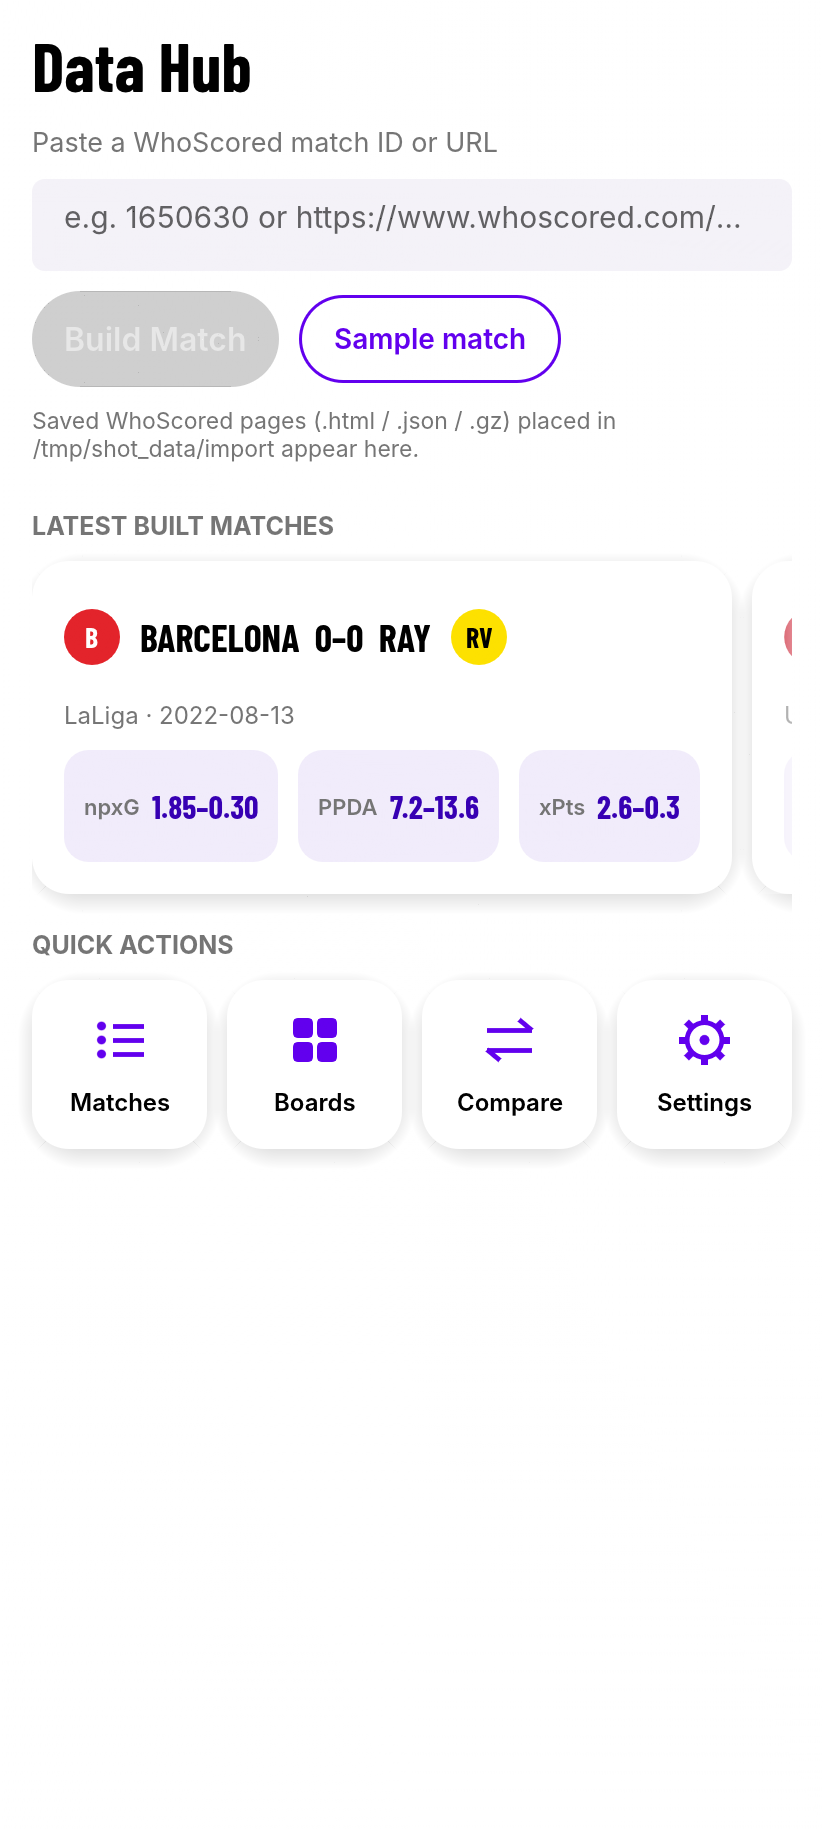
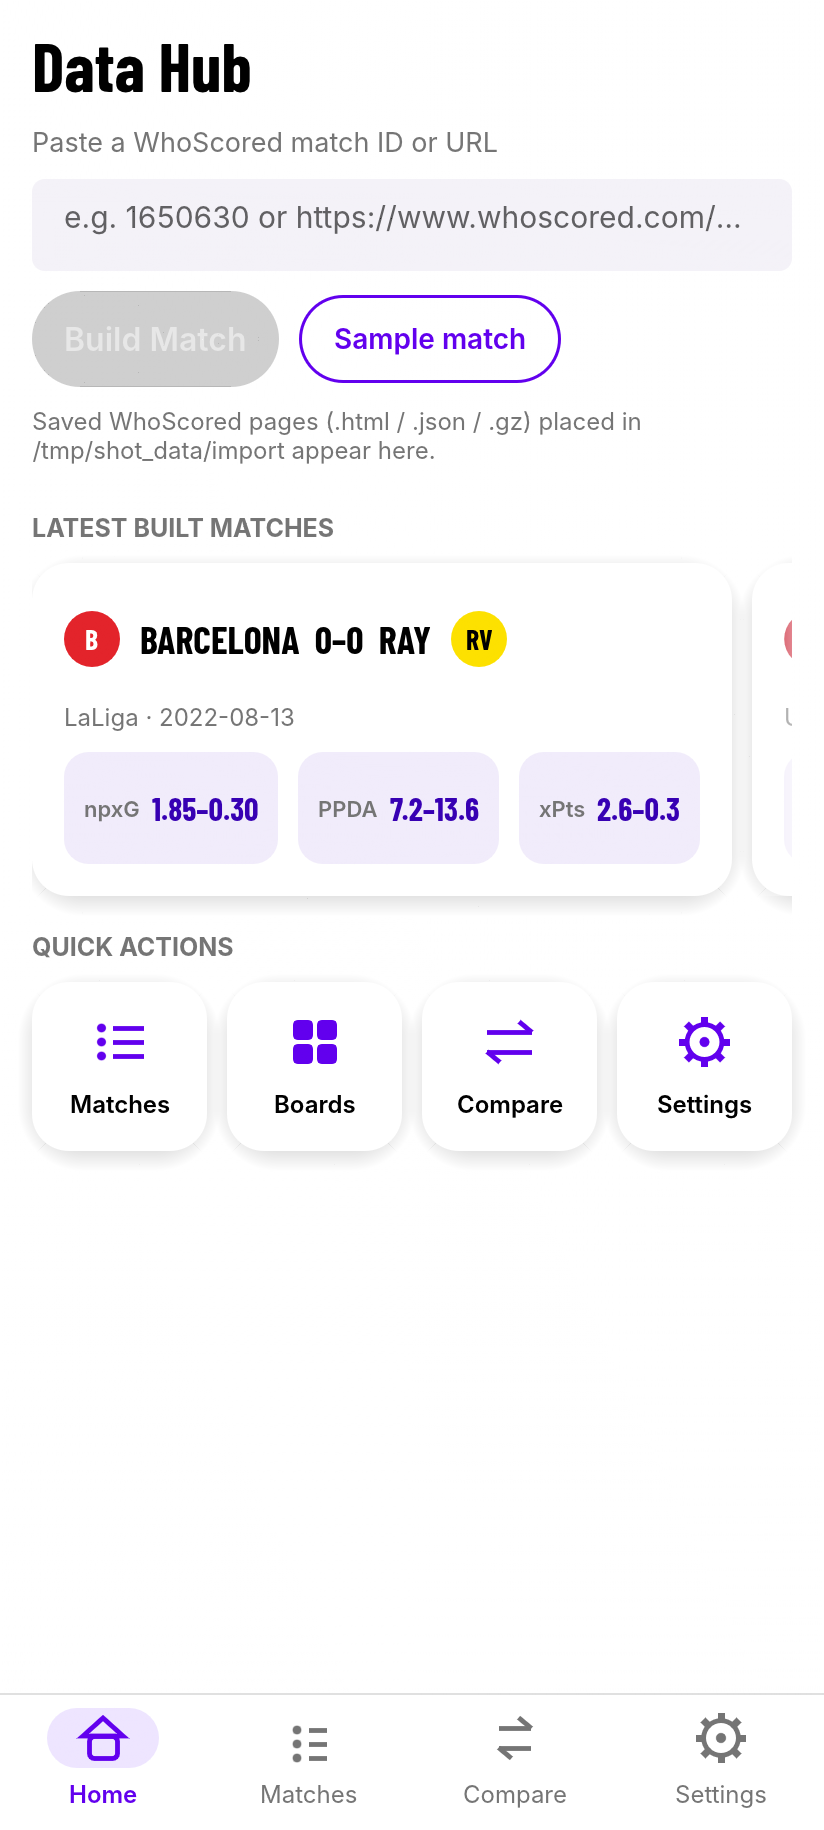
Update README and screenshots
Document the scrape relay, interactive boards and UI guidance; refresh the
headless screenshots including the tooltip and legend-toggle state.

Claude-Session: https://claude.ai/code/session_01U23C1TwYZAWvTVzDNa9yUQ

diff --git a/README.md b/README.md
@@ -9,7 +9,9 @@ crates/
 docs/
   DATA_HUB_UPGRADE.md   full spec the pipeline implements
   screenshots/          headless renders of every app screen
-.github/workflows/android-apk.yml   CI: tests + APK artifact
+.github/workflows/android-apk.yml        CI: tests + APK artifact
+.github/workflows/scrape-whoscored.yml   headless-browser scrape relay (football-analytics-tutorials)
+scripts/scrape_whoscored.py              relay script, writes data/whoscored/<id>.json.gz
 ```
 
 ## Quick start (desktop)
@@ -63,6 +65,38 @@ A release build without a signing profile is signed with the debug keystore. To 
 - **Soft keyboard:** opened and closed through `AndroidApp::show_soft_input` / `hide_soft_input` when a text field takes focus. The hardware or gesture Back button pops the screen stack.
 - **Data:** stored in the app's internal data dir. Saved WhoScored pages can be imported from `/sdcard/Android/data/com.datahub.app/files/import/`, with `adb push page.html /sdcard/Android/data/com.datahub.app/files/import/`. They then appear on Home.
 - **Exports:** PNGs go to `.../files/exports/`.
+
+## Scrape relay: any WhoScored link works automatically
+
+WhoScored bot-walls plain HTTP. Scraping therefore runs in a real headless Chromium on GitHub Actions, using the Playwright scraper from [ricardoherediaj/football-analytics-tutorials](https://github.com/ricardoherediaj/football-analytics-tutorials) (pinned commit):
+
+1. You paste a WhoScored link in the app.
+2. The app looks for `data/whoscored/<id>.json.gz` in the relay repo (this repo by default).
+3. If the match isn't there, it tries WhoScored directly. If that is blocked, it triggers the `scrape-whoscored` workflow and polls until the run commits the match. This step needs a relay token.
+4. FotMob (colours, crests, xGOT, league name) is fetched from the device. It needs no browser.
+
+The relay token is a fine-grained token with Actions read/write and Contents read, scoped to the relay repo. It is entered in Settings and kept only in the app's private storage, never in the repo. Without a token, run the workflow by hand (Actions > scrape-whoscored > Run workflow > paste the URL); the app then picks the match up by itself. For the CLI, pass `--relay owner/repo` and set the token through the `DATAHUB_RELAY_TOKEN` environment variable.
+
+## Interactive boards
+
+Every board is also written as a vector display list (`<board>.scene.json`). The app draws it natively with its own painter and fonts, instead of showing a picture:
+- crisp at any zoom
+- tap a mark for a tooltip (shots, passes, regains, players, cells, wedges)
+- tap a legend entry to hide or show that layer
+- marks enter with a short staggered motion; Settings > Reduce motion turns this off
+
+Headlines colour team names inline, HighlightText-style, and the xG flow carries a curved annotation arrow on the biggest chance. SVG and PNG output remain available for export.
+
+## UI
+
+The UI follows the guidance from [UI UX Pro Max](https://github.com/nextlevelbuilder/ui-ux-pro-max-skill), with your purple and teal palette kept as the brand:
+- bottom navigation with four labelled vector icons (no emoji icons)
+- 44 to 48 dp touch targets with pressed feedback
+- glass cards on dark surfaces
+- staggered entrance motion of about 350 ms with reduced-motion support
+- text never below 12 px
+- safe areas respected
+- charts that pair colour with shape and labels
 
 ## Getting WhoScored data
 
